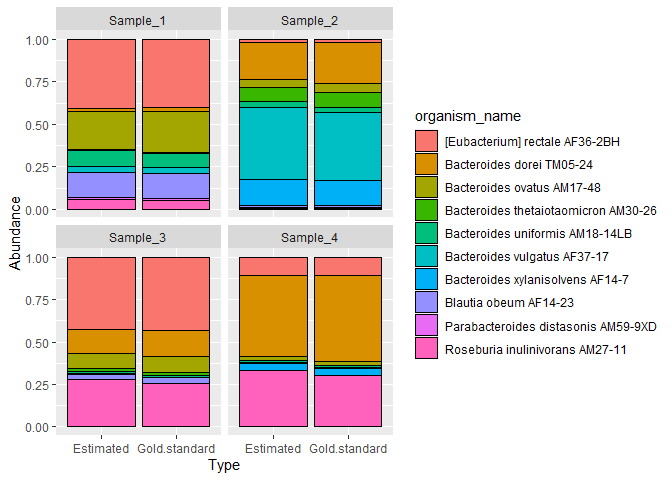
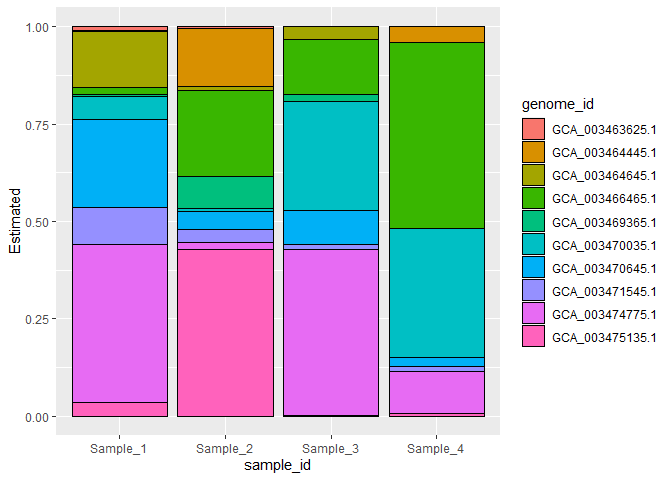
re-running tutorials

diff --git a/README.md b/README.md
@@ -52,12 +52,12 @@ This is a short step-by-step tutorial on a small toy example to illustrate a typ
 
 You need to install the `tidyverse` and `ggdendro` R packages as these are used in the example code below, in addition to the `microrms` package and its dependencies.
 
-Download the archive [RMStutorial.tar.gz](http://arken.nmbu.no/~larssn/soft/RMStutorial.tar.gz), and unzip it to some folder named `RMStutorial`. It should contain the folders `gnm`, `fastq`, `fasta`, `frg` and `tmp`, where the latter three are empty. There should also a file `gold_standard.txt`. The last folder, `ecoli_frg`, is used in the second tutorial below.
+Download the archive [RMS\_tutorial.tar.gz](http://arken.nmbu.no/~larssn/soft/RMS_tutorial.tar.gz), and unzip it to some folder named `RMS_tutorial`. It should contain the folders `gnm`, `fastq`, `fasta`, `frg` and `tmp`, where the latter three are empty. There should also a file `gold_standard.txt`. The last folder, `ecoli_frg`, is used in the second tutorial below.
 
-Start R/RStudio and make the `RMStutorial` your working directory for this R session, e.g.
+Start R/RStudio and make the `RMS_tutorial` your working directory for this R session, e.g.
 
 ``` r
-setwd("C:/my_tutorials/RMStutorial")   # edit this
+setwd("C:/my_tutorials/RMS_tutorial")   # edit this
 ```
 
 where you need to replace the path above with the correct one depending on where you unzipped the archive.
@@ -75,7 +75,7 @@ All information is stored in an *rms object*, which is simply a `list` with seve
 
 ### Collecting RMS fragments
 
-First, we collect the RMS fragments from each genome, and store these as fasta-formatted files in a separate folder. You also find the file `gnm/genome_table.txt` among the genomes, containing a small table with one row for each genome. It is required you have such a metadata table with information about the genomes. This table *must contain* the columns `genome_id` and `genome_file`, but may contain any other genome metadata columns in addition to these.
+First, we collect the RMS fragments from each genome, and store these as fasta-formatted files in a separate folder. This is something you do once for each genome. You also find the file `gnm/genome_table.txt` among the genomes, containing a small table with one row for each genome. It is required you have such a metadata table with information about the genomes. This table *must contain* the columns `genome_id` and `genome_file`, but may contain any other genome metadata columns in addition to these.
 
 The `genome_id` should be a text without spaces, and unique to each genome. It is added to the header-lines of the fragment fasta files, to indicate the genome of origin for all fragments. Here we used the prefix of the genome fasta filenames as `genome_id`.
 
@@ -111,7 +111,7 @@ We notice all these genomes have hundreds or even thousands of RMS fragments. If
 
 This job is done once for each genome, and the fragment files are stored (genome files are no longer needed). Thus, if you later want to add more genomes, you only run this for the new genomes. Notice that the fragment files have names identical to the genome files, and must be in a separate folder. Thus, the `genome_file` column in `genome.tbl` is used to name both genome and fragment files.
 
-Also, note the `readfasta()/writeFasta()` functions from the `microseq` package handles files compressed to `.gz` as well as uncompressed fasta files.
+Also, note the `readfasta()/writeFasta()` functions from the `microseq` package handles gzipped files. Since the `genome_file` names have the extension `.gz` the fragment files will also be compressed.
 
 ### The RMS object
 
@@ -142,7 +142,7 @@ rms.obj <- RMSobject(genome.tbl, frg.dir)
 
 The clustering of these fragments results in more than 17000 clusters, using the default `identity`, see `?RMSobject`. The resulting object `rms.obj` is a `list` with two tables and a matrix.
 
-The `Genome.tbl` is a copy of the `genome.tbl`, but has got two new columns, and should be inspected right away. The column `N_clusters` lists the number of fragment clusters in each genome, and `N_unique` how many of these are unique to each genome:
+The `rms.obj$Genome.tbl` is a copy of the `genome.tbl`, but has got two new columns, and should be inspected right away. The column `N_clusters` lists the number of fragment clusters in each genome, and `N_unique` how many of these are unique to each genome:
 
 ``` r
 print(rms.obj$Genome.tbl)
@@ -164,7 +164,7 @@ print(rms.obj$Genome.tbl)
 
 In this case there are plenty of unique clusters for all genomes. If two or more genomes are very closely related, this number will shrink towards zero, making the recognition of each impossible.
 
-The `Cluster.tbl` is a table listing information about all fragment clusters, one row for each cluster. Here is a listing of the first entries:
+The `rms.obj$Cluster.tbl` is a table listing information about all fragment clusters, one row for each cluster. Here is a listing of the first entries:
 
 ``` r
 head(rms.obj$Cluster.tbl)
@@ -182,7 +182,7 @@ head(rms.obj$Cluster.tbl)
 
 Very similar fragments (identity above the threshold set by the `identity` argument to `RMSobject`) will belong to the same cluster. Closely related genome will typically share several fragments. The `Cluster.tbl` indicate how many genomes contain each fragment (`N.genomes`), and also which genomes (`Members`). Note this table has a `Header` and a `Sequence` column, making it possible to write this to a fasta file using `writeFasta()`.
 
-The `Cpn.mat` is the copy number matrix. This is a central data structure of the RMS method. It has one row for each fragment cluster, and one column for each genome. Here are the first few rows and columns:
+The `rms.obj$Cpn.mat` is the copy number matrix. This is a central data structure of the RMS method. It has one row for each fragment cluster, and one column for each genome. Here are the first few rows and columns:
 
 ``` r
 print(rms.obj$Cpn.mat[1:10,1:4])
@@ -215,8 +215,8 @@ One way of quantifying the pairwise difference between the genomes is to compute
 
 ``` r
 library(ggdendro)
-d <- corrDist(rms.obj$Cpn.mat)
-tree <- hclust(as.dist(d), method = "single")
+D <- corrDist(rms.obj$Cpn.mat)
+tree <- hclust(as.dist(D), method = "single")
 ggd <- ggdendrogram(dendro_data(tree),
                     rotate = T,
                     theme_dendro = F) +
@@ -224,18 +224,18 @@ ggd <- ggdendrogram(dendro_data(tree),
 print(ggd)
 ```
 
-![](README_files/figure-markdown_github/unnamed-chunk-10-1.png)
+![](README_files/figure-markdown_github/unnamed-chunk-11-1.png)
 
 All branches look deep and nice here, with correlation distances above 0.9. If branches get too shallow (correlation distance close to zero) in this tree, the genomes in that clade will be diffcult/impossible to separate since they share too many fragments. The solution to this is to cluster the genomes, which is illustrated in the next tutorial below.
 
 Processing reads
 ----------------
 
-The read processing means essentially taking the fastq files from sequencing as input and producing a fasta file as output, for each sample. This step is independent of what we did above.
+The read processing means essentially taking the fastq files from sequencing as input and producing a fasta file as output, for each sample. This step is independent of what we did above. You only do this once for each sample, and it is the resulting fasta files we use in the downstream analysis.
 
-The data from sequencing are the paired fastq files in the folder `fastq/`. Again, it is required to have a table like the one in `fastq/sample_table.txt` with metadata about each sample. There should always be a column `sample_id` with a unique text for each sample. Also, this `sample.tbl` should have two columns `R1_file` and `R2_file` specifying the corresponding fastq filenames.
+The data from sequencing are the paired fastq files in the folder `fastq/`. Again, it is reccomended to have a table like the one in `fastq/sample_table.txt` with metadata about each sample. There should always be a column `sample_id` with a unique text for each sample. Also, this `sample.tbl` has two columns `R1_file` and `R2_file` specifying the corresponding fastq filenames.
 
-In addition we also create the required column `fasta_file` below, containing the name of the resulting fasta files with reads for each sample. Below we create this from the `sample_id`, which means this text must be useful as a filename prefix (e.g. no `/` or spaces inside). The table may contain this column already, with no need to create it. Again, paths *should not* be part of any filenames, we supply them as separate inputs. Below we output these files to the `fasta` folder.
+In addition we also create the required column `fasta_file` below, containing the name of the resulting fasta files with reads for each sample. Here we create this from the `sample_id`, which means this text must be useful as a filename prefix (e.g. no `/` or spaces inside). The table may contain this column already, with no need to create it. Again, paths *should not* be part of any filenames, we supply them as separate inputs. Below we output these files to the `fasta` folder.
 
 There is no R function for doing the read processing, since this may be done in many different ways. Here is an R script with some suggested code for doing this processing using the `vsearch` software. Note the explicit decompression of the fastq-files. This is only added here in case you run this on a Windows 10 computer, on which we have found `vsearch` is not capable of reading gzipped files. On all other system these code-chunks should be deleted, and `vsearch` will read compressed files directly. The (long) screen output from this is hidden in this document:
 
@@ -359,7 +359,7 @@ Before we are done with this step, we add the `sample.tbl` to our `rms.obj`. Not
 rms.obj <- addSampleTable(rms.obj, sample.tbl)
 ```
 
-In this way we have the information about our samples in the same object as we have all other information. Inspect the `rms.obj` to verify the `Sample.tbl` is now another element in this `list`. Note that the function used above will replace an existing `Sample.tbl` inside the `rms.obj` if the latter already contains such a table.
+In this way we have the information about our samples in the same object as we have all other information. Inspect the `rms.obj` to verify the `Sample.tbl` is now another element in this `list`. Note that the function used above will replace an existing `Sample.tbl` inside the `rms.obj` if the latter already contains such a table. This means you may re-use the genome collection (and the corresponding `Genome.tbl`, `Cluster.tbl`and `Cpn.mat`) with other samples (reads) by adding a different `Sample.tbl`.
 
 Mapping reads to clusters
 -------------------------
@@ -429,7 +429,7 @@ print(plt)
 
     ## Warning: Transformation introduced infinite values in continuous y-axis
 
-![](README_files/figure-markdown_github/unnamed-chunk-16-1.png)
+![](README_files/figure-markdown_github/unnamed-chunk-17-1.png)
 
 Note the log-transformed y-axes. Since we have limited fragments to lengths of 30 to 500 only, the bias is not severe, but the shortest and longest fragments have slightly lower readcounts. Let us try to normalize:
 
@@ -449,7 +449,7 @@ plt %+% tbl %>% print
 
     ## Warning: Transformation introduced infinite values in continuous y-axis
 
-![](README_files/figure-markdown_github/unnamed-chunk-18-1.png)
+![](README_files/figure-markdown_github/unnamed-chunk-19-1.png)
 
 There is some effect on the most extreme lengths, as usual. Note the log-transformed y-axes, giving the illusion of large distortions in the smallest readcounts. They actually change little compared to the more normal readcount values.
 
@@ -476,27 +476,28 @@ abd.mat <- rmscols(rms.obj)
     ## Deconvolving sample Sample_1 ...
     ##    initial estimate...
     ##    constrained optimization...
-    ## final  value 3544340.203421 
+    ## final  value 3907551.479916 
     ## converged
     ## Deconvolving sample Sample_2 ...
     ##    initial estimate...
     ##    constrained optimization...
-    ## final  value 2458206.784959 
+    ## iter    1 value 3096080.587833
+    ## final  value 3096080.587833 
     ## converged
     ## Deconvolving sample Sample_3 ...
     ##    initial estimate...
     ##    constrained optimization...
-    ## iter    1 value 3947655.772168
-    ## final  value 3947655.772168 
+    ## iter    1 value 3918957.400454
+    ## final  value 3918957.400454 
     ## converged
     ## Deconvolving sample Sample_4 ...
     ##    initial estimate...
     ##    constrained optimization...
-    ## iter    1 value 5671248.803066
-    ## final  value 5671248.803066 
+    ## iter    1 value 5326493.929727
+    ## final  value 5326493.929727 
     ## converged
 
-The `abd.mat` is a matrix with one row for each genome, and one column for each sample. The numbers in a column are the relative contributions of each genome to this sample.
+The `abd.mat` is a matrix with one row for each genome, and one column for each sample. The numbers in a column are the relative abundances for each genome in the corresponding sample.
 
 We may plot the results as stacked bar charts:
 
@@ -504,12 +505,12 @@ We may plot the results as stacked bar charts:
 abd.mat %>% 
   as_tibble(rownames = "genome_id") %>% 
   pivot_longer(cols = -genome_id, names_to = "sample_id", values_to = "Estimated") -> long.tbl
-p1 <- ggplot(long.tbl) +
+
+ggplot(long.tbl) +
   geom_col(aes(x = sample_id, y = Estimated, fill = genome_id), color = "black")
-print(p1)
 ```
 
-![](README_files/figure-markdown_github/unnamed-chunk-21-1.png)
+![](README_files/figure-markdown_github/unnamed-chunk-22-1.png)
 
 ### Comparing to gold standard
 
@@ -529,7 +530,7 @@ suppressMessages(read_delim("gold_standard.txt", delim = "\t")) %>%
   facet_wrap(~sample_id)
 ```
 
-![](README_files/figure-markdown_github/unnamed-chunk-22-1.png)
+![](README_files/figure-markdown_github/unnamed-chunk-23-1.png)
 
 New data
 --------
@@ -541,7 +542,7 @@ Beware that for large collections of genomes (thousands), computations will be m
 Tutorial 2 - subspecies resolution
 ==================================
 
-As mentioned above, the RMS method has a potential for estimating abundances down to below the species rank, i.e.separating strains. This is in fact one of the strengths of RMS, compared to a full shotgun sequencing. The reason for this sensitivity is the fact that we know *a priori* which fragments belong to which genomes.
+As mentioned above, the RMS method has a potential for estimating abundances down to below the species rank, i.e.separating strains. This is in fact one of the strengths of RMS. The reason for this sensitivity is the fact that we know *a priori* which fragments belong to which genomes.
 
 If two genomes are very similar, they will also share many RMS fragments. As with all methods, there will always be a lower resolution, i.e. it is impossible to 'see' the difference between two identical genomes! How close can two genomes be, and still be separated by RMS?
 
@@ -649,7 +650,7 @@ ggd <- ggdendrogram(dendro_data(tree),
 print(ggd)
 ```
 
-![](README_files/figure-markdown_github/unnamed-chunk-25-1.png)
+![](README_files/figure-markdown_github/unnamed-chunk-26-1.png)
 
 It is clear that some distances are close to zero. We may also compute the condition value from the copy number matrix:
 
@@ -659,7 +660,7 @@ print(conditionValue(ecoli.rms.obj$Cpn.mat))
 
     ## [1] 9056.452
 
-How large condition value can we tolerate? The perfect value is 1, but this is never achieved with real data. a value below 10 is extremely good. The condition value for the copy number matrix in tutorial 1 is around 3.7, and we saw how all those genomes separated nicely in the dendrogram. Condition values below 100 or even 1000 is still quite acceptable, and even 10 000 is not all that bad. Going above this, we must expect some substantial errors in some abundance estimates. When later running `rmscols()` to estimate abundances, the number of iterations is a measure of how separable the genomes are. A larger condition value means more iterations are needed, and less precise estimates.
+How large condition value can we tolerate? The perfect value is 1, but this is never achieved with real data. a value below 10 is extremely good. The condition value for the copy number matrix in tutorial 1 is around 3.7, and we saw how all those genomes separated nicely in the dendrogram. Condition values below 100 or even 1000 is still quite acceptable, and even 10 000 is not all that bad. Going above this, we must expect some substantial errors in some abundance estimates. When later running `rmscols()` to estimate abundances, the number of iterations is also a measure indicating how separable the genomes are. A larger condition value means more iterations are needed, and less precise estimates.
 
 Let us 'prune' the genome collection such that we get a smaller set of genomes, that we are capable of separating better. This is done by *genome clustering*. Genomes who are too similar are clustered into a group, and only the centroide genome in this group is used in the analysis, as a representative for the group. We use the function `genomeClustering()` for this:
 
@@ -708,6 +709,6 @@ ggd <- ggdendrogram(dendro_data(tree),
 print(ggd)
 ```
 
-![](README_files/figure-markdown_github/unnamed-chunk-30-1.png)
+![](README_files/figure-markdown_github/unnamed-chunk-31-1.png)
 
-Note that no correlation distance are now below 0.20, and we expect to be able to separate these genomes fairly well. In [Snipen et al (2020)]() we demonstrate this on a much larger collection of *E. coli* genomes. Note also that this is something you do *in silico* prior to any experimental efforts, since it only involves the sequenced genomes. Having sequenced some samples, you proceed as in tutorial 1 in order to estimate how many of these clusters are actually found in the samples.
+Note that no correlation distance are now below 0.20, and we expect to be able to separate these genomes fairly well. In [Snipen et al (2020)]() we demonstrate this on a much larger collection of *E. coli* genomes. Note also that this is something you do *in silico* prior to any experimental efforts, since it only involves the sequenced genomes. Having sequenced some samples, you proceed as in tutorial 1 in order to estimate how abundant these clusters are in the samples.
